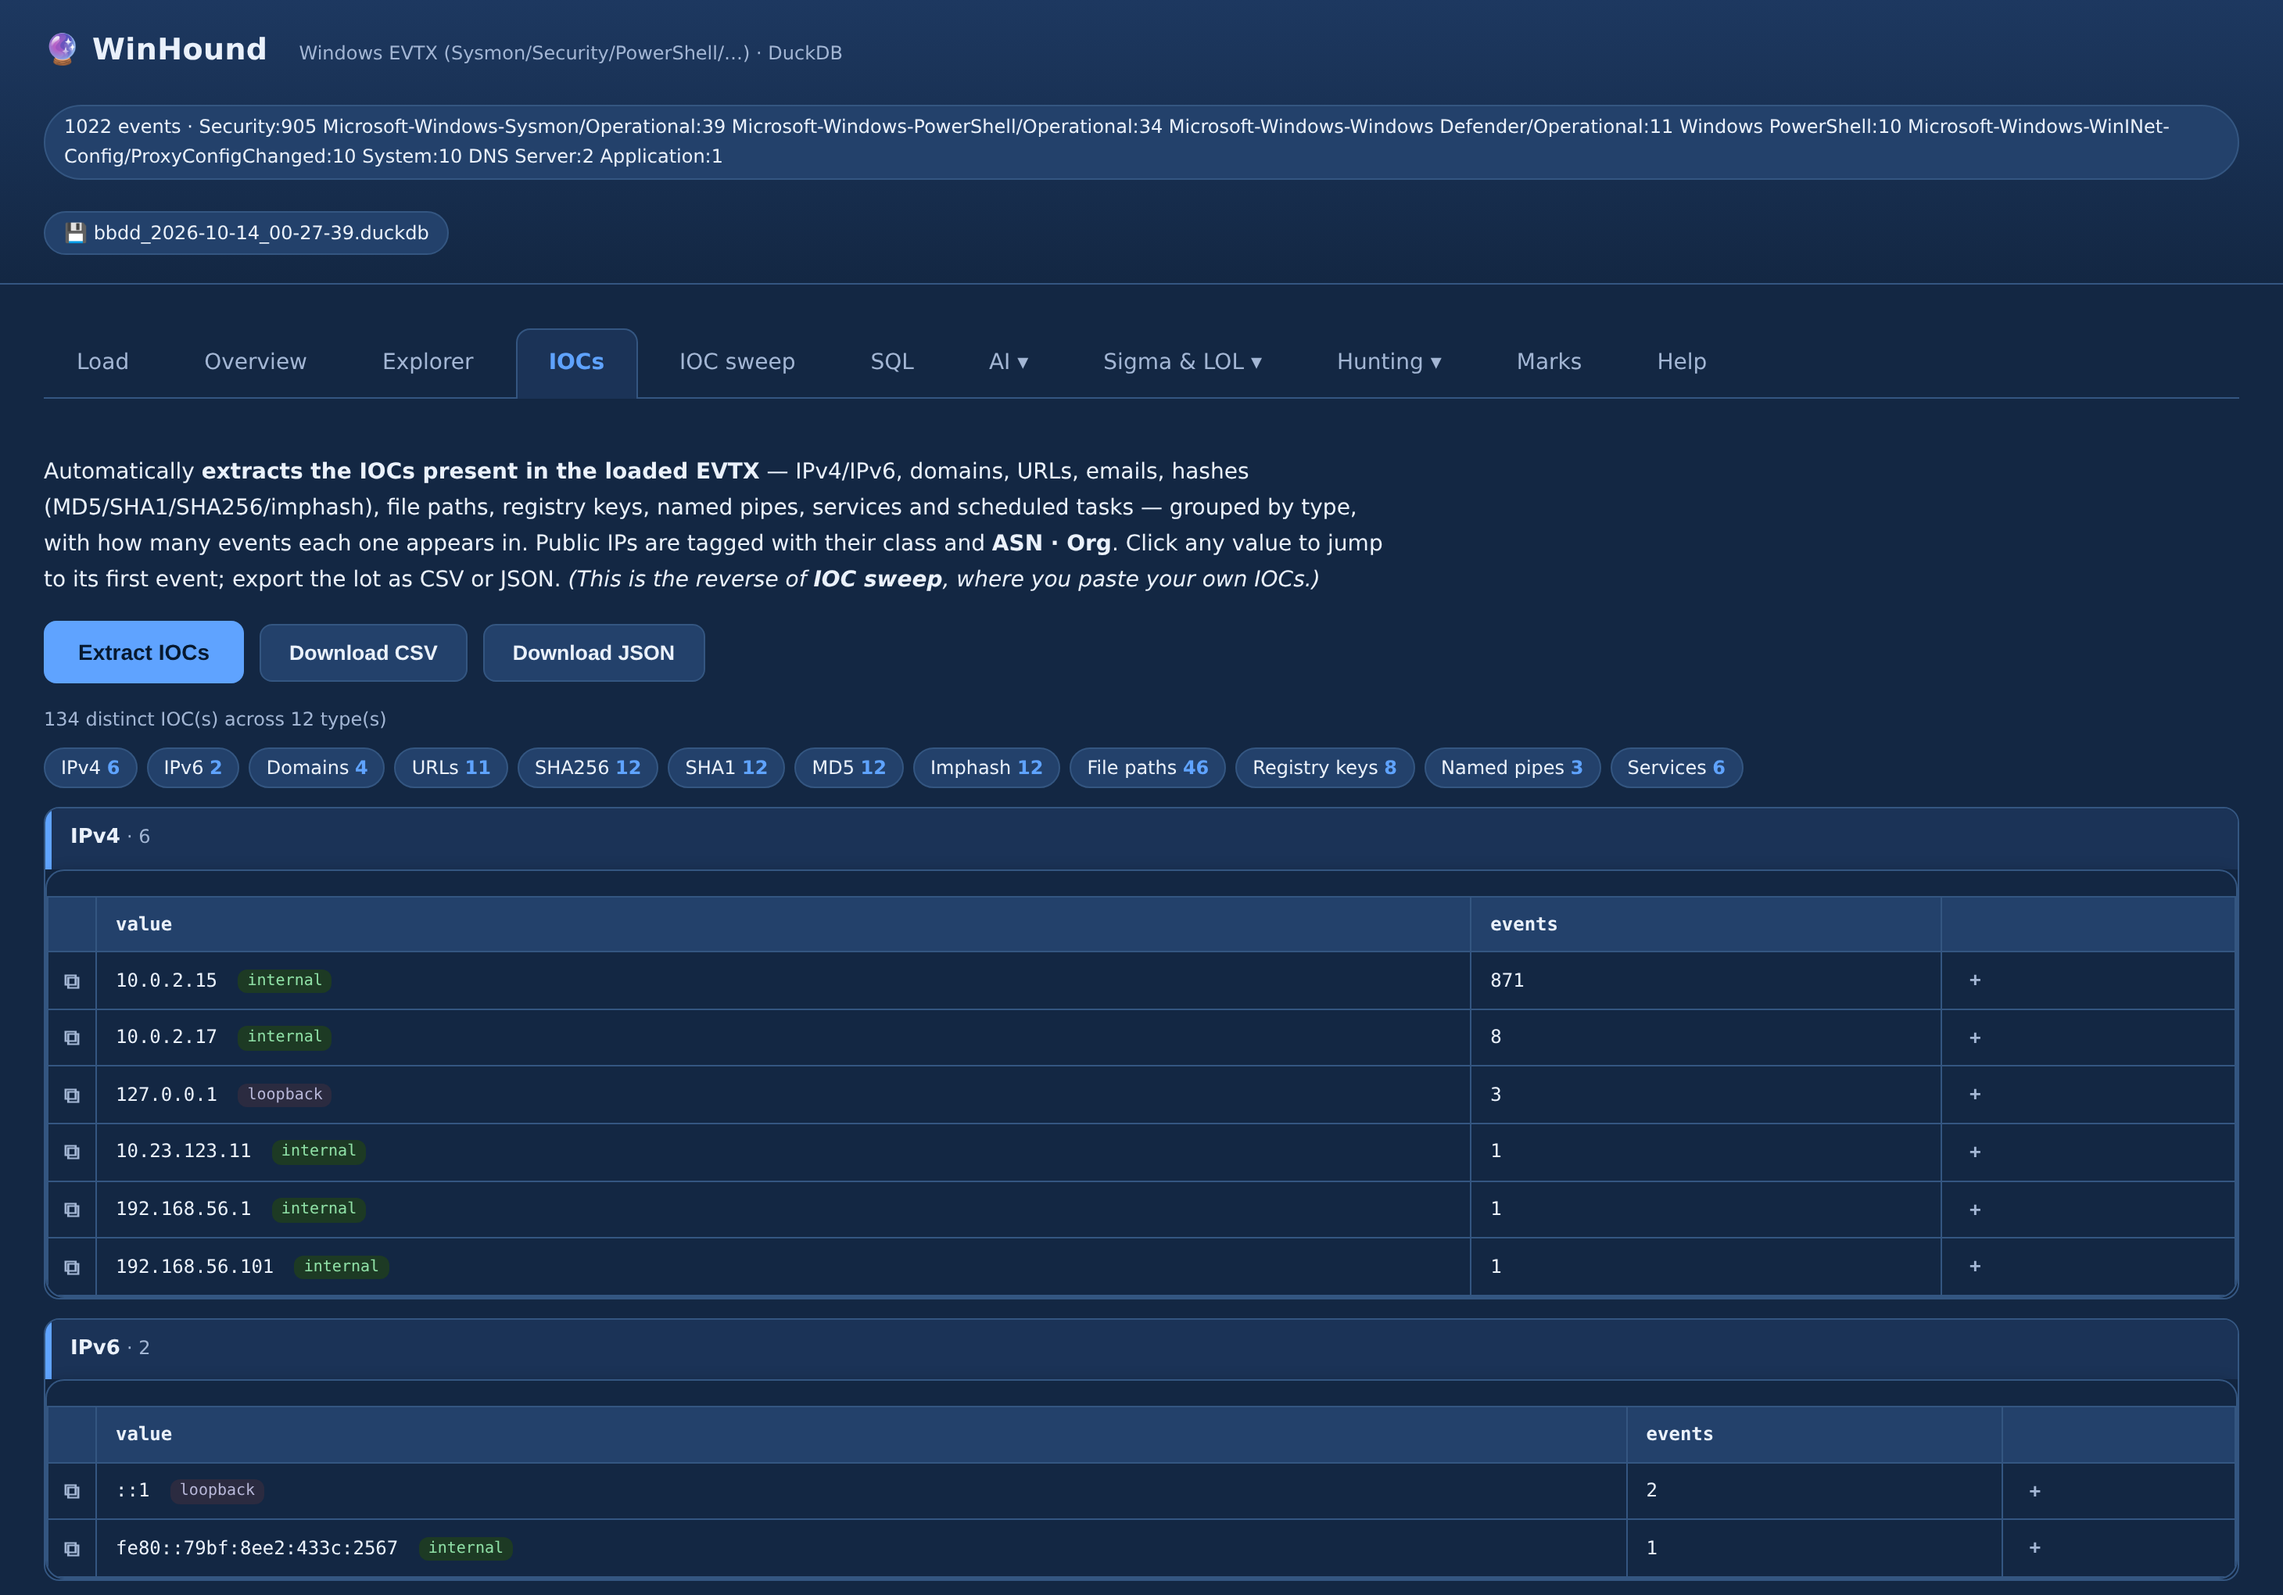
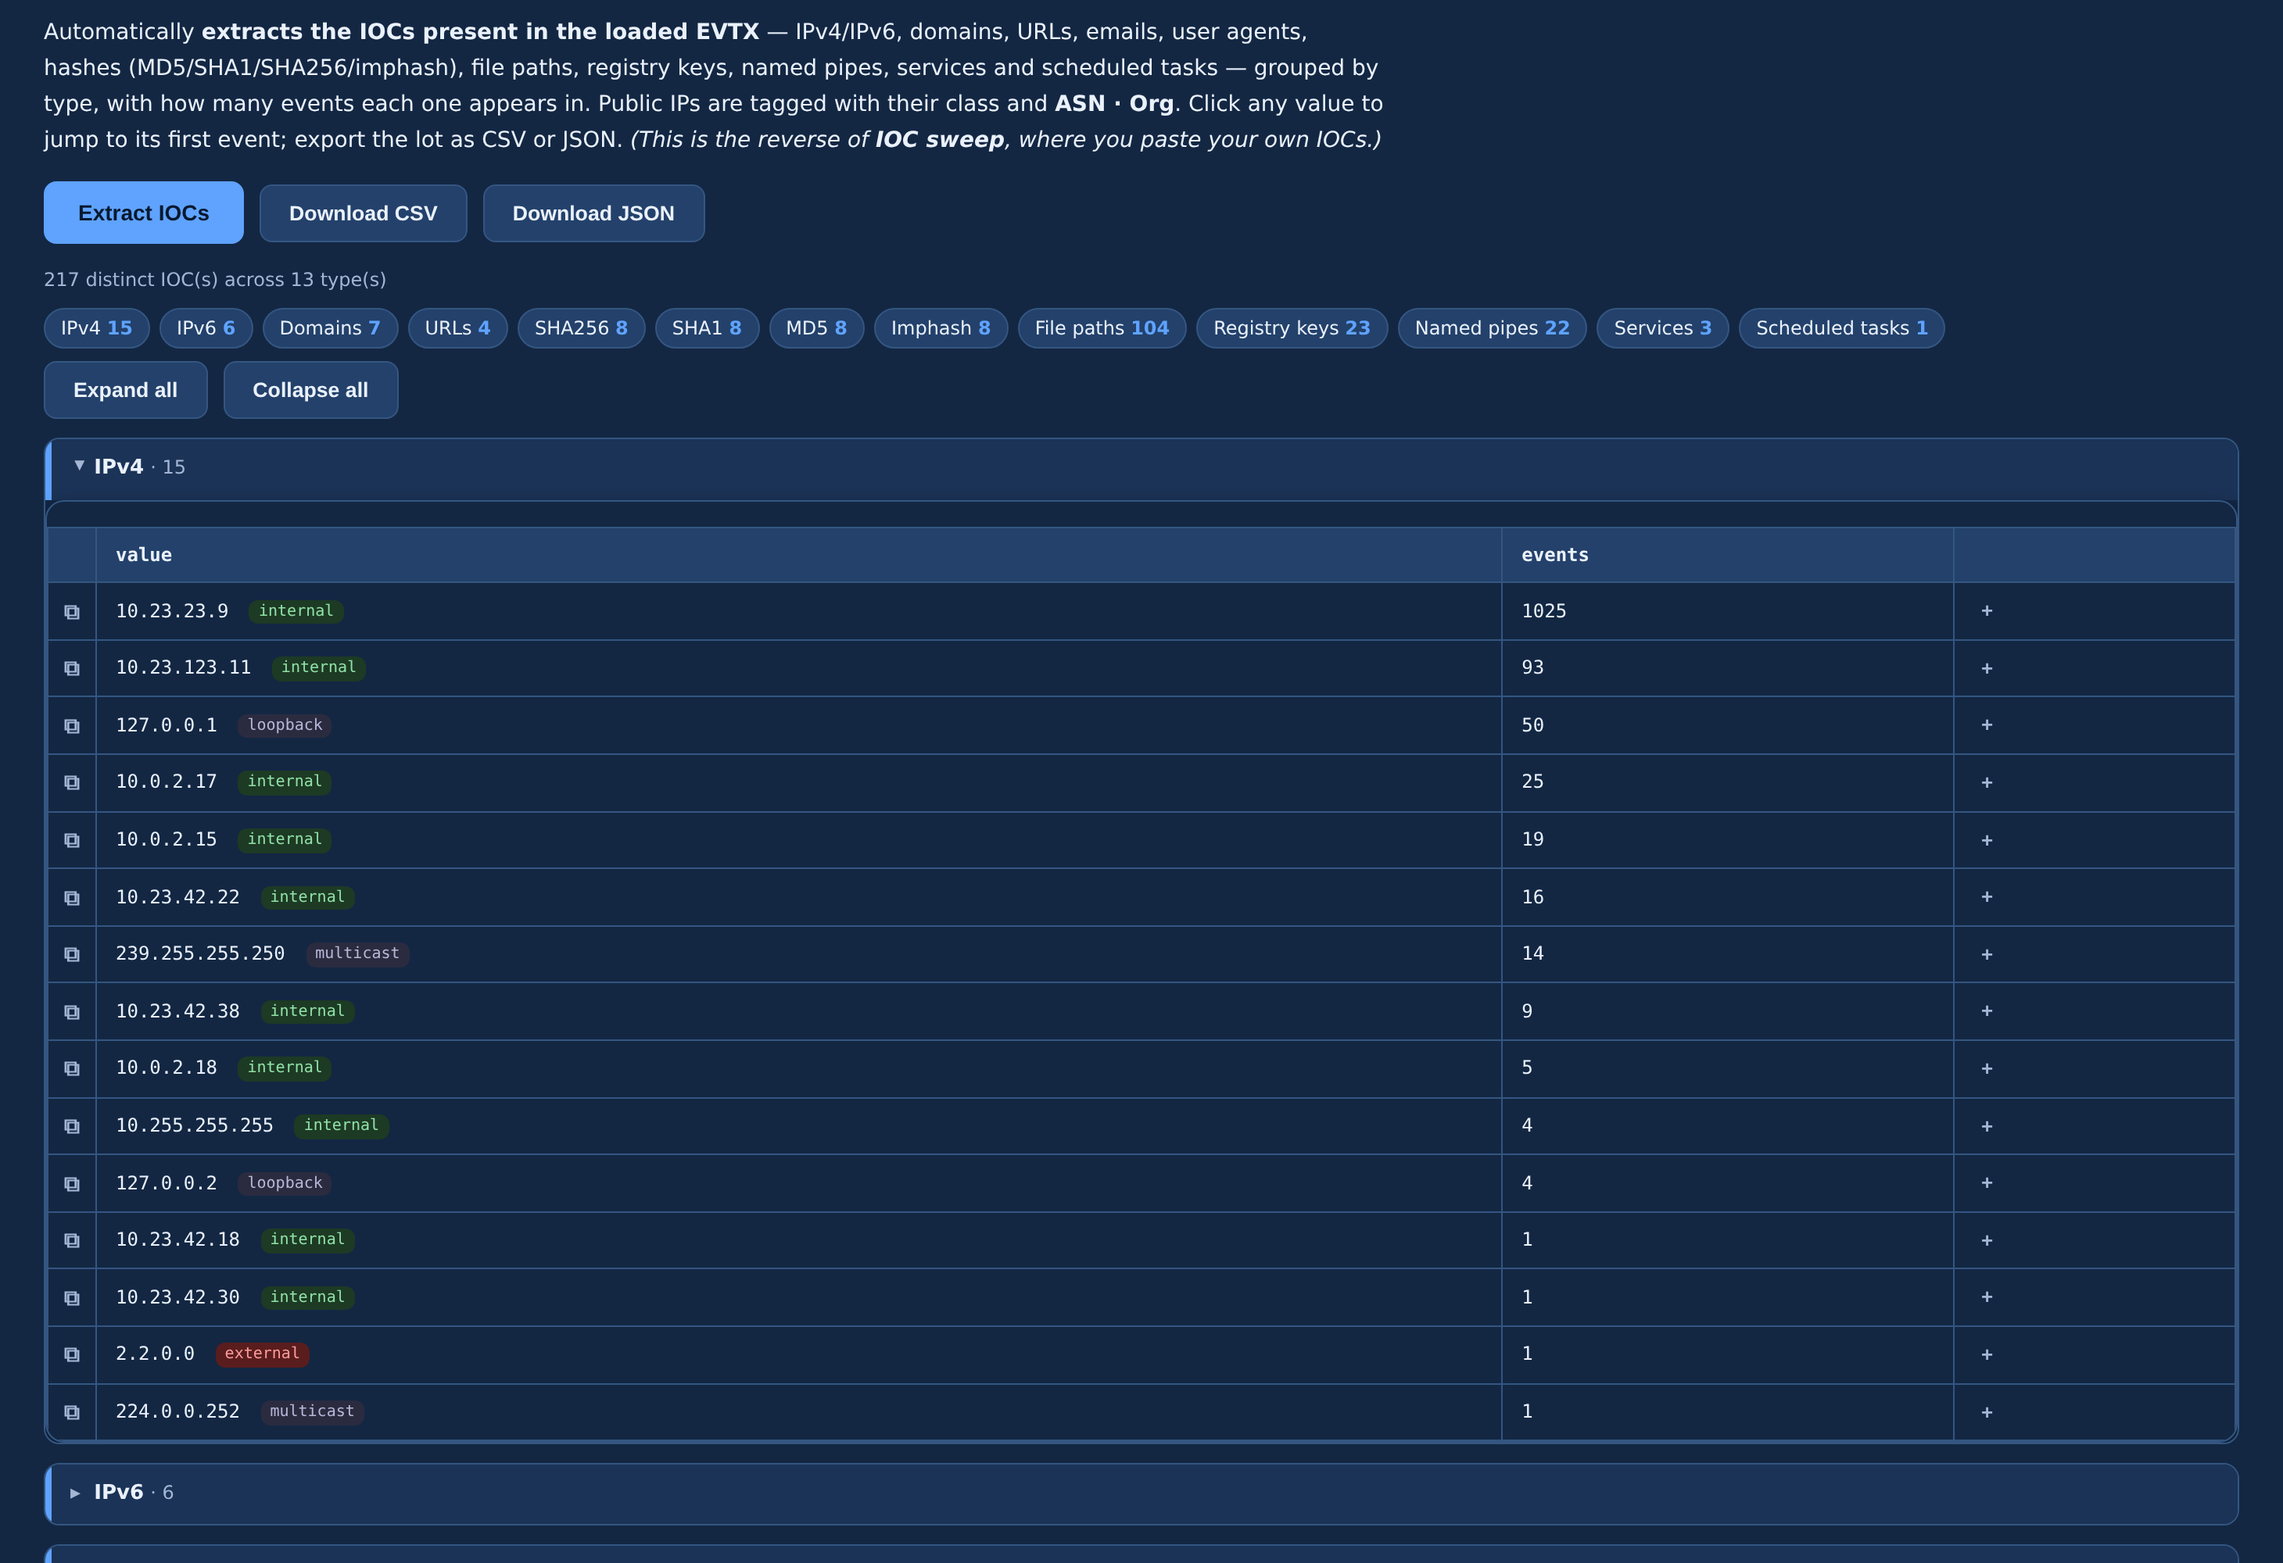
feat(iocs): add user-agent IOC type and collapsible per-type cards
- Extract user agents as a dedicated IOC type (UserAgent / cs(User-Agent) fields)
- Group each IOC type into a collapsible card (caret + Expand/Collapse all),
  first card open by default, chips jump to and expand their type
- Refresh the IOCs screenshot and README/help text to match

Claude-Session: https://claude.ai/code/session_014v8xzHoRPvNCuRo7BYN2ri

Changed region(s): [[0.0, 0.0, 1.0, 1.0]]

diff --git a/winhound/app.py b/winhound/app.py
@@ -1400,6 +1400,12 @@ INDEX_HTML = r"""<!doctype html>
  .iocard.ioc-hit .iohead{border-left:4px solid #f85149}
  .iocard.ioc-clean .iohead{border-left:4px solid #3fb950;color:var(--muted)}
  .iocard .iohead{border-left:4px solid var(--accent)}
+ .iocard .iocxbody{display:none}
+ .iocard.open .iocxbody{display:block}
+ .iocxtoggle{cursor:pointer;user-select:none}
+ .iocard .caret{display:inline-block;width:11px;color:var(--muted);transition:transform .15s}
+ .iocard .caret::before{content:'\25B8'}
+ .iocard.open .caret{transform:rotate(90deg)}
  .iocxchips{display:flex;flex-wrap:wrap;gap:6px;margin:8px 0}
  .iocxchip{background:var(--panel2);border:1px solid var(--border);border-radius:14px;padding:3px 10px;font-size:12px;color:var(--fg);text-decoration:none}
  .iocxchip:hover{border-color:var(--accent)} .iocxchip b{color:var(--accent)}
@@ -1865,7 +1871,7 @@ LIMIT 50;</textarea>
 
  <!-- ============ IOC EXTRACTOR ============ -->
  <section id="iocx" class="panel">
-  <div class="help"><p>Automatically <b>extracts the IOCs present in the loaded EVTX</b> — IPv4/IPv6, domains, URLs, emails, hashes (MD5/SHA1/SHA256/imphash), file paths, registry keys, named pipes, services and scheduled tasks — grouped by type, with how many events each one appears in. Public IPs are tagged with their class and <b>ASN · Org</b>. Click any value to jump to its first event; export the lot as CSV or JSON. <i>(This is the reverse of <b>IOC sweep</b>, where you paste your own IOCs.)</i></p></div>
+  <div class="help"><p>Automatically <b>extracts the IOCs present in the loaded EVTX</b> — IPv4/IPv6, domains, URLs, emails, user agents, hashes (MD5/SHA1/SHA256/imphash), file paths, registry keys, named pipes, services and scheduled tasks — grouped by type, with how many events each one appears in. Public IPs are tagged with their class and <b>ASN · Org</b>. Click any value to jump to its first event; export the lot as CSV or JSON. <i>(This is the reverse of <b>IOC sweep</b>, where you paste your own IOCs.)</i></p></div>
   <div class="row">
    <button class="bigbtn" onclick="loadIocx()" id="iocx_btn">Extract IOCs</button>
    <button class="sec" onclick="iocxExport('csv')" id="iocx_csv" disabled>Download CSV</button>
@@ -1975,7 +1981,7 @@ LIMIT 50;</textarea>
 
    <h3>IOCs <span class="hintlbl">· extractor (discovered indicators)</span></h3>
    <ul>
-    <li><b>Extracts the IOCs present in the loaded EVTX</b> — IPv4/IPv6, domains, URLs, emails, hashes (MD5/SHA1/SHA256/imphash), file paths, registry keys, named pipes, services and scheduled tasks — grouped by type, each with the number of events it appears in. Registry/pipe/service/task come from the parsed EventData fields; strict validation keeps the rest clean. Public IPs are tagged with their class and <b>ASN · Org</b>. Click a value to jump to its first event; export everything as CSV or JSON. It's the <b>reverse of IOC sweep</b>: the app discovers them for you.</li>
+    <li><b>Extracts the IOCs present in the loaded EVTX</b> — IPv4/IPv6, domains, URLs, emails, user agents, hashes (MD5/SHA1/SHA256/imphash), file paths, registry keys, named pipes, services and scheduled tasks — grouped by type, each with the number of events it appears in. Registry/pipe/service/task come from the parsed EventData fields; strict validation keeps the rest clean. Public IPs are tagged with their class and <b>ASN · Org</b>. Click a value to jump to its first event; export everything as CSV or JSON. It's the <b>reverse of IOC sweep</b>: the app discovers them for you.</li>
    </ul>
 
    <h3>IOC sweep</h3>
@@ -2586,10 +2592,11 @@ async function loadIocx(){
   document.getElementById('iocx_csv').disabled=false; document.getElementById('iocx_json').disabled=false;
   if(!j.groups||!j.groups.length){ out.innerHTML='<p class="muted">No IOCs found in the loaded data.</p>'; btn.disabled=false; return; }
   let h='<div class="count">'+j.total+' distinct IOC(s) across '+j.groups.length+' type(s)</div>';
-  h+='<div class="iocxchips">'+j.groups.map(g=>'<a class="iocxchip" href="#iocx_'+g.type+'">'+esc(g.label)+' <b>'+g.total+'</b></a>').join('')+'</div>';
-  for(const g of j.groups){
-   h+='<div class="iocard" id="iocx_'+g.type+'"><div class="iohead"><b>'+esc(g.label)+'</b> <span class="muted">· '+g.total+(g.total>g.items.length?(' (showing '+g.items.length+')'):'')+'</span></div>';
-   h+='<div class="wrap"><table><thead><tr><th class="acts"></th><th>value</th><th>events</th><th></th></tr></thead><tbody>';
+  h+='<div class="iocxchips">'+j.groups.map(g=>'<a class="iocxchip" href="#iocx_'+g.type+'" onclick="iocxOpen(event,\''+g.type+'\')">'+esc(g.label)+' <b>'+g.total+'</b></a>').join('')+'</div>';
+  h+='<div class="row" style="margin:2px 0 6px"><button class="sec" onclick="iocxAll(1)">Expand all</button> <button class="sec" onclick="iocxAll(0)">Collapse all</button></div>';
+  j.groups.forEach(function(g,gi){
+   h+='<div class="iocard'+(gi===0?' open':'')+'" id="iocx_'+g.type+'"><div class="iohead iocxtoggle" onclick="this.parentNode.classList.toggle(\'open\')"><span class="caret"></span> <b>'+esc(g.label)+'</b> <span class="muted">· '+g.total+(g.total>g.items.length?(' (showing '+g.items.length+')'):'')+'</span></div>';
+   h+='<div class="iocxbody"><div class="wrap"><table><thead><tr><th class="acts"></th><th>value</th><th>events</th><th></th></tr></thead><tbody>';
    for(const it of g.items){
     let tag='';
     if(it.klass){ const cls=(it.klass==='external'?'ioctag-ext':(it.klass==='internal'?'ioctag-int':'ioctag-doc'));
@@ -2598,13 +2605,15 @@ async function loadIocx(){
       +'<td class="iocval" onclick="iocxGoto('+it.id+')" title="jump to first event">'+esc(it.value)+' '+tag+'</td>'
       +'<td>'+it.count+'</td><td><button class="revbtn" title="add first event to review" onclick="event.stopPropagation();addReview('+it.id+',this)" data-regla="'+esc('IOC '+g.label+': '+it.value)+'">&#43;</button></td></tr>';
    }
-   h+='</tbody></table></div></div>';
-  }
+   h+='</tbody></table></div></div></div>';
+  });
   out.innerHTML=h;
  }catch(e){ msg.innerHTML='<span class="err">'+esc(e)+'</span>'; }
  btn.disabled=false;
 }
 function iocxGoto(id){ switchTab('explorer'); openCtx(id); }
+function iocxAll(open){ document.querySelectorAll('#iocx_out .iocard').forEach(c=>c.classList.toggle('open',!!open)); }
+function iocxOpen(ev,type){ if(ev)ev.preventDefault(); const c=document.getElementById('iocx_'+type); if(c){ c.classList.add('open'); c.scrollIntoView({block:'start'}); } }
 function iocxExport(fmt){
  if(!IOCX) return;
  if(fmt==='json'){ dlBlob('iocs.json', JSON.stringify(IOCX,null,2), 'application/json'); return; }

diff --git a/winhound/store.py b/winhound/store.py
@@ -1718,9 +1718,13 @@ class EventStore:
                 for key, typ in (("ServiceName", "service"),
                                  ("TaskName", "task"),
                                  ("PipeName", "pipe"),
-                                 ("TargetObject", "registry")):
+                                 ("TargetObject", "registry"),
+                                 ("UserAgent", "useragent"),
+                                 ("cs(User-Agent)", "useragent"),
+                                 ("User-Agent", "useragent")):
                     v = ex.get(key)
-                    if isinstance(v, str) and v.strip() and (typ, v.strip()) not in seen:
+                    if isinstance(v, str) and v.strip() and v.strip() != "-" \
+                            and (typ, v.strip()) not in seen:
                         seen.add((typ, v.strip()))
                         _bump(typ, v.strip(), rid, ts)
         return self._group_iocs(agg, per_type, X, geo)

diff --git a/winhound/ioc_extract.py b/winhound/ioc_extract.py
@@ -207,12 +207,13 @@ def iter_iocs(general: str, hashes_text: str,
 
 
 # etiqueta legible por tipo (orden de presentación)
-IOC_TYPES = ["ipv4", "ipv6", "domain", "url", "email",
+IOC_TYPES = ["ipv4", "ipv6", "domain", "url", "email", "useragent",
              "sha256", "sha1", "md5", "imphash", "filepath",
              "registry", "pipe", "service", "task"]
 IOC_LABEL = {
     "ipv4": "IPv4", "ipv6": "IPv6", "domain": "Domains", "url": "URLs",
-    "email": "Emails", "sha256": "SHA256", "sha1": "SHA1", "md5": "MD5",
-    "imphash": "Imphash", "filepath": "File paths", "registry": "Registry keys",
-    "pipe": "Named pipes", "service": "Services", "task": "Scheduled tasks",
+    "email": "Emails", "useragent": "User agents", "sha256": "SHA256",
+    "sha1": "SHA1", "md5": "MD5", "imphash": "Imphash", "filepath": "File paths",
+    "registry": "Registry keys", "pipe": "Named pipes", "service": "Services",
+    "task": "Scheduled tasks",
 }

diff --git a/README.md b/README.md
@@ -6,8 +6,8 @@
 
 Feed it `.evtx` files (even straight from a `.zip`/archive), open the browser,
 and investigate: timeline, full‑text + field search, Sigma & LOL detections,
-process tree, logons, persistence, ATT&CK and a one‑click case report.
-Runs **100% offline**.
+process tree, logons, persistence, IOC extraction & sweep, ATT&CK and a
+one‑click case report. Runs **100% offline**.
 
 ![Python](https://img.shields.io/badge/Python-3.11+-blue)
 ![FastAPI](https://img.shields.io/badge/FastAPI-DuckDB-009688)
@@ -60,7 +60,7 @@ python run.py --db case.duckdb  # keep the case in a file instead of memory
 
 ![Sigma](docs/img/04-sigma.png)
 
-**IOCs — indicators discovered in the data, grouped by type and exportable**
+**IOCs — indicators discovered in the data, grouped into collapsible cards and exportable**
 
 ![IOCs](docs/img/05-iocs.png)
 
@@ -75,7 +75,7 @@ python run.py --db case.duckdb  # keep the case in a file instead of memory
 | 🥸 **Lookalike** | masquerading binaries by edit distance across all sources |
 | 🗺 **ATT&CK matrix** | coverage of the case built from Sigma hits |
 | 🌲 **Hunting views** | process tree (from a PID), logons (Kerberos/NTLM/RDP), persistence, PowerShell, network |
-| 🧷 **IOC extractor** | discovers the IOCs present in the EVTX — IPs, domains, URLs, hashes/imphash, file paths, registry keys, named pipes, services, scheduled tasks — grouped, ASN‑tagged, CSV/JSON export |
+| 🧷 **IOC extractor** | discovers the IOCs present in the EVTX — IPs, domains, URLs, emails, user agents, hashes/imphash, file paths, registry keys, named pipes, services, scheduled tasks — in collapsible per‑type cards, ASN‑tagged, CSV/JSON export |
 | 🎯 **IOC sweep** | paste IOCs and sweep the whole dataset, export CSV |
 | 🌐 **GeoIP / ASN** | public IPs tagged with country + Org/ISP (offline DB‑IP Lite) |
 | ⏱ **Live ingest** | progress with start / elapsed / ETA |
